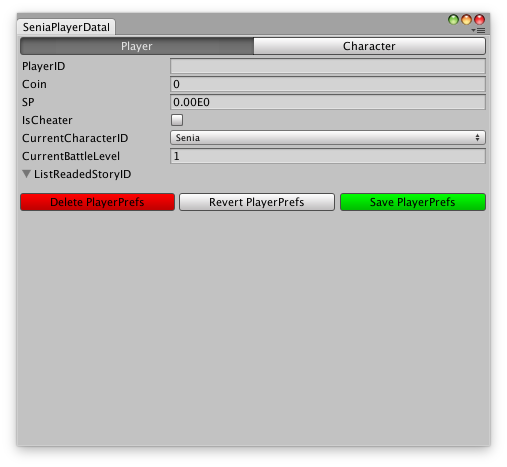
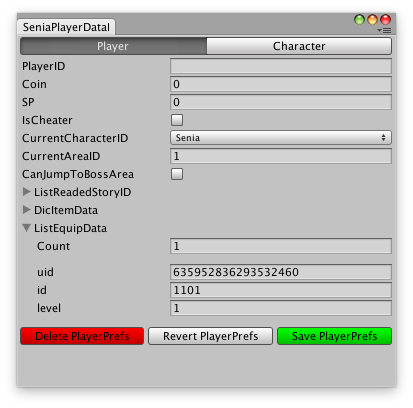
增加SeniaTableUnitTest Editor說明 增加SeniaPlayerData Editor的ListEquipData、CurrentEquipList說明

Changed region(s): [[0.0291, 0.0294, 0.9879, 0.9706], [0.0872, 0.7059, 0.1453, 0.7647], [0.0872, 0.6471, 0.1453, 0.6765]]

diff --git a/docs/senia-tools.rst b/docs/senia-tools.rst
@@ -7,19 +7,19 @@ SeniaPlayerData Editor
 
 SeniaPlayerData Editor可用來修改玩家和角色資料
 
-.. warning:: 不要在遊戲中啟動時同時修改資料，會導致資料錯誤
+  .. warning:: 不要在遊戲中啟動時同時修改資料，會導致資料錯誤
 
-開啟編輯器，可將視窗拖曳至Unity的邊緣固定
+  開啟編輯器，可將視窗拖曳至Unity的邊緣固定
    .. image:: /_static/image/senia-tools/1_seniaplayerdataeditor_0.png
    
    
-Player分頁
+  Player分頁
    .. image:: /_static/image/senia-tools/1_seniaplayerdataeditor_1.png
    
    * Delete PlayerPrefs 刪除玩家和角色資料
    * Revert PlayerPrefs 還原目前正在修改的資料
    * Save PlayerPrefs 將目前修改的資料存至本機
-      
+   
    * PlayerID 玩家ID，未來可能使用平台的ID
    * Coin 玩家金錢，目前不使用
    * SP 玩家SP
@@ -27,8 +27,14 @@ Player分頁
    * CurrentCharacterID 玩家目前使用的角色ID
    * CurrentBattleLevel 玩家目前關卡進度，必須要一次加5關，例如1、6、11、...
    * ListReadedStoryID 已讀的劇情ID
+   * ListEquipData 玩家擁有的裝備資料，將Count增加會自動在列表後方加入新的裝備資料
+   
+     - uid 裝備的唯一辨識id，不可重複
+     - id 裝備id，對照至weapon.csv的id
+     - level 裝備等級
 
-Character分頁
+
+  Character分頁
    .. image:: /_static/image/senia-tools/1_seniaplayerdataeditor_2.png
    
    * CharacterID 選擇要修改的角色ID來修改
@@ -47,5 +53,25 @@ Character分頁
 
    * SkillLv 技能等級，skillid XX與表格skillclass.csv相同
    
+   * CurrentEquipList 目前角色所裝備的裝備，最大五格位置，uid必須要在玩家ListEquipData中
+
+
+  
+表格測試工具
+----------------------------------------
+
+SeniaTableUnitTest Editor可用來測試表格機率是否正確
+
+  dropgroup.csv
+   .. image:: /_static/image/senia-tools/2_SeniaTableUnitTest_Editor.png
+   
+   * TableName 選擇要測試的表格
+   * DropGroupId 要測試的id
+   * TestCount 測試次數
+   
+   按下Start Test後會在下方顯示測試後的資訊，Probability表示怪物掉落物品機率
+
+
+
 表格轉換工具
 ----------------------------------------
